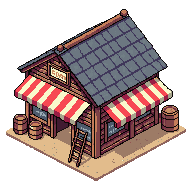
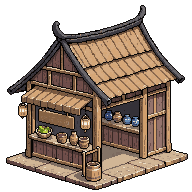
v84.6-0: 商店改古代木造雜貨攤(去掉紅白遮雨棚)，藥鋪招牌文字塗掉
Claude-Session: https://claude.ai/code/session_01TfDhagCiaMjipPx8vrMTLg

diff --git a/index.html b/index.html
@@ -3906,7 +3906,7 @@ function poly(pts,fill,stroke){ ctx.beginPath(); ctx.moveTo(pts[0].x,pts[0].y);
   if(fill){ctx.fillStyle=fill;ctx.fill();} if(stroke){ctx.strokeStyle=stroke;ctx.lineWidth=1;ctx.stroke();} }
 /* 中式木屋美術(assets/objects/houses)：每種都有固定的地基格數(w x d)，錨點＝圖內「最靠近鏡頭的前角」落地點；樣式=農舍/民宅/商鋪/鐵匠/藥鋪/客棧/長老屋/倉房/仙觀/涼亭 */
 /* v2 美術(assets/v2/obj)：PixelLab 重新製作的桃花島素材；錨點＝透明邊界裁切後的「底部中央」，用 v2Draw(key,落地x,落地y,縮放,是否水平翻轉) 貼圖 */
-const V2_META={"big_peach":{"w":192,"h":192,"bx0":10,"by0":10,"bx1":182,"by1":182},"bridge":{"w":192,"h":128,"bx0":8,"by0":23,"bx1":190,"by1":117},"bush0":{"w":64,"h":64,"bx0":6,"by0":7,"bx1":58,"by1":55},"cabin_shingle":{"w":192,"h":192,"bx0":10,"by0":9,"bx1":182,"by1":168},"cabin_thatch":{"w":192,"h":192,"bx0":7,"by0":21,"bx1":185,"by1":175},"crops":{"w":128,"h":96,"bx0":30,"by0":25,"bx1":100,"by1":72},"dock":{"w":192,"h":192,"bx0":28,"by0":28,"bx1":170,"by1":160},"elder":{"w":192,"h":192,"bx0":7,"by0":32,"bx1":185,"by1":157},"fence_picket":{"w":64,"h":64,"bx0":11,"by0":5,"bx1":52,"by1":59},"fence_rail":{"w":64,"h":64,"bx0":9,"by0":4,"bx1":56,"by1":60},"gate":{"w":192,"h":192,"bx0":10,"by0":22,"bx1":181,"by1":169},"gate_iso":{"w":192,"h":192,"bx0":16,"by0":4,"bx1":176,"by1":188},"granary":{"w":160,"h":192,"bx0":5,"by0":16,"bx1":153,"by1":166},"inn":{"w":256,"h":224,"bx0":29,"by0":6,"bx1":227,"by1":209},"medic":{"w":192,"h":192,"bx0":22,"by0":12,"bx1":171,"by1":162},"pavilion":{"w":160,"h":192,"bx0":9,"by0":11,"bx1":148,"by1":181},"rock0":{"w":192,"h":192,"bx0":26,"by0":14,"bx1":165,"by1":187},"scarecrow":{"w":96,"h":128,"bx0":2,"by0":5,"bx1":94,"by1":128},"shop":{"w":192,"h":192,"bx0":6,"by0":9,"bx1":186,"by1":181},"smith":{"w":192,"h":192,"bx0":8,"by0":12,"bx1":187,"by1":181},"temple":{"w":192,"h":192,"bx0":30,"by0":24,"bx1":164,"by1":160},"tree_bamboo0":{"w":128,"h":160,"bx0":20,"by0":12,"bx1":108,"by1":149},"tree_broad0":{"w":128,"h":160,"bx0":10,"by0":8,"bx1":120,"by1":150},"tree_peach0":{"w":128,"h":160,"bx0":14,"by0":25,"bx1":114,"by1":135},"tree_pine0":{"w":128,"h":160,"bx0":22,"by0":6,"bx1":106,"by1":154},"tree_willow0":{"w":128,"h":160,"bx0":13,"by0":7,"bx1":115,"by1":153},"wall_stone":{"w":64,"h":64,"bx0":5,"by0":5,"bx1":58,"by1":58},"well":{"w":96,"h":128,"bx0":13,"by0":7,"bx1":83,"by1":118},"mt_peak":{"w":192,"h":192,"bx0":13,"by0":6,"bx1":185,"by1":181},"mt_ridge":{"w":192,"h":192,"bx0":5,"by0":3,"bx1":186,"by1":181},"mt_hill":{"w":128,"h":128,"bx0":8,"by0":16,"bx1":119,"by1":105}};
+const V2_META={"big_peach":{"w":192,"h":192,"bx0":10,"by0":10,"bx1":182,"by1":182},"bridge":{"w":192,"h":128,"bx0":8,"by0":23,"bx1":190,"by1":117},"bush0":{"w":64,"h":64,"bx0":6,"by0":7,"bx1":58,"by1":55},"cabin_shingle":{"w":192,"h":192,"bx0":10,"by0":9,"bx1":182,"by1":168},"cabin_thatch":{"w":192,"h":192,"bx0":7,"by0":21,"bx1":185,"by1":175},"crops":{"w":128,"h":96,"bx0":30,"by0":25,"bx1":100,"by1":72},"dock":{"w":192,"h":192,"bx0":28,"by0":28,"bx1":170,"by1":160},"elder":{"w":192,"h":192,"bx0":7,"by0":32,"bx1":185,"by1":157},"fence_picket":{"w":64,"h":64,"bx0":11,"by0":5,"bx1":52,"by1":59},"fence_rail":{"w":64,"h":64,"bx0":9,"by0":4,"bx1":56,"by1":60},"gate":{"w":192,"h":192,"bx0":10,"by0":22,"bx1":181,"by1":169},"gate_iso":{"w":192,"h":192,"bx0":16,"by0":4,"bx1":176,"by1":188},"granary":{"w":160,"h":192,"bx0":5,"by0":16,"bx1":153,"by1":166},"inn":{"w":256,"h":224,"bx0":29,"by0":6,"bx1":227,"by1":209},"medic":{"w":192,"h":192,"bx0":22,"by0":12,"bx1":171,"by1":162},"pavilion":{"w":160,"h":192,"bx0":9,"by0":11,"bx1":148,"by1":181},"rock0":{"w":192,"h":192,"bx0":26,"by0":14,"bx1":165,"by1":187},"scarecrow":{"w":96,"h":128,"bx0":2,"by0":5,"bx1":94,"by1":128},"shop":{"w":192,"h":192,"bx0":6,"by0":5,"bx1":188,"by1":190},"smith":{"w":192,"h":192,"bx0":8,"by0":12,"bx1":187,"by1":181},"temple":{"w":192,"h":192,"bx0":30,"by0":24,"bx1":164,"by1":160},"tree_bamboo0":{"w":128,"h":160,"bx0":20,"by0":12,"bx1":108,"by1":149},"tree_broad0":{"w":128,"h":160,"bx0":10,"by0":8,"bx1":120,"by1":150},"tree_peach0":{"w":128,"h":160,"bx0":14,"by0":25,"bx1":114,"by1":135},"tree_pine0":{"w":128,"h":160,"bx0":22,"by0":6,"bx1":106,"by1":154},"tree_willow0":{"w":128,"h":160,"bx0":13,"by0":7,"bx1":115,"by1":153},"wall_stone":{"w":64,"h":64,"bx0":5,"by0":5,"bx1":58,"by1":58},"well":{"w":96,"h":128,"bx0":13,"by0":7,"bx1":83,"by1":118},"mt_peak":{"w":192,"h":192,"bx0":13,"by0":6,"bx1":185,"by1":181},"mt_ridge":{"w":192,"h":192,"bx0":5,"by0":3,"bx1":186,"by1":181},"mt_hill":{"w":128,"h":128,"bx0":8,"by0":16,"bx1":119,"by1":105}};
 const V2_IMGS={}; Object.keys(V2_META).forEach(function(k){ const im=new Image(); im.src="assets/v2/obj/"+k+".png"; V2_IMGS[k]=im; });
 function v2Draw(key,x,y,sc,flip){ const im=V2_IMGS[key], m=V2_META[key]; if(!im||!im.complete||!im.naturalWidth) return false; sc=sc||1;
   const bw=(m.bx1-m.bx0)*sc, bh=(m.by1-m.by0)*sc, dx=x-bw/2, dy=y-bh;
@@ -11483,7 +11483,7 @@ function drawSlotEmpty(x){ x.clearRect(0,0,200,200); }
 })();
 /* ============ 更新系統（登入首頁） ============ */
 // 版本號：每次正式更新時，這裡和 sw.js 的 CACHE_VERSION 一起遞增
-const GAME_VER='v84.5-0';
+const GAME_VER='v84.6-0';
 let _updNew=null;
 async function checkUpdate(manual){
   const msg=document.getElementById('updMsg'), btn=document.getElementById('updBtn');

diff --git a/sw.js b/sw.js
@@ -2,7 +2,7 @@
 // 讓遊戲可以「安裝到桌面/主畫面」成為獨立App，並提供離線快取(圖片/音效載入過一次後，
 // 離線或網路不穩時也能照常遊玩；index.html本身每次都優先抓最新版，確保更新後玩家能立刻拿到新內容)。
 
-const CACHE_VERSION = 'v84.5-0';           // 每次正式更新版本號時手動遞增，瀏覽器才會清掉舊快取換新的
+const CACHE_VERSION = 'v84.6-0';           // 每次正式更新版本號時手動遞增，瀏覽器才會清掉舊快取換新的
 const SHELL_CACHE = 'lineage-pixel-shell-' + CACHE_VERSION;
 const ASSET_CACHE  = 'lineage-pixel-assets-' + CACHE_VERSION;
 
